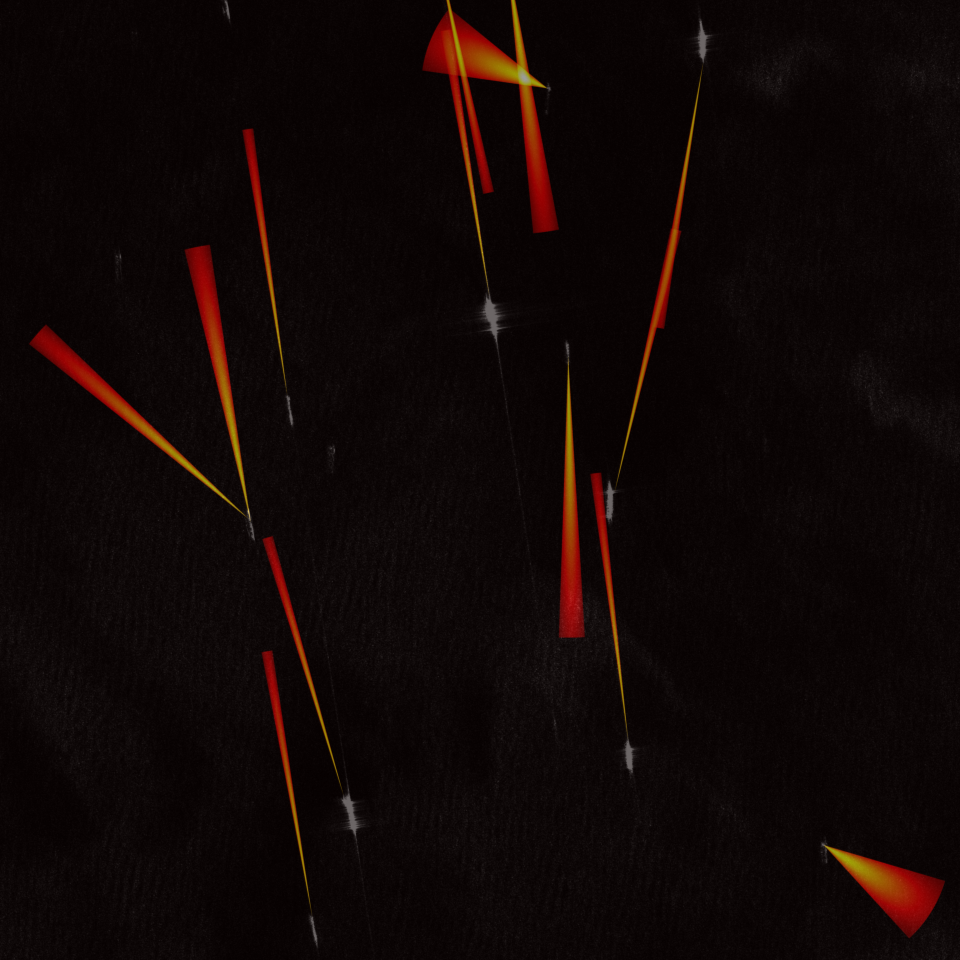
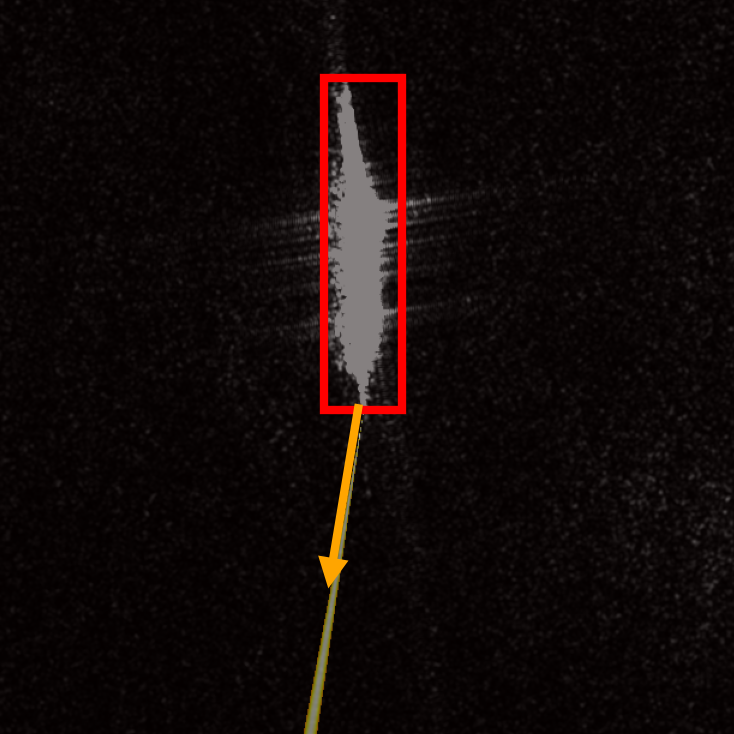
Reorganize awards page into Honors & Recognitions and Fellowships & Grants

diff --git a/awards.html b/awards.html
@@ -110,23 +110,9 @@
         <h1 class="page-title">Awards</h1>
 
         <section class="publications-section">
-            <h2 class="section-title">Honors</h2>
+            <h2 class="section-title">Honors & Recognitions</h2>
             <div class="awards-list">
                 <div class="award-item reveal">
-                    <div class="award-icon"><i class="fa-solid fa-user-graduate"></i></div>
-                    <div class="award-content">
-                        <span class="award-year">May 2026</span>
-                        <span class="award-text">
-                            <strong>DAAD AInet Fellow</strong> (AI in Neuroscience), awarded by the <a
-                                href="https://www.daad.de/en/the-daad/postdocnet/">German Academic Exchange Service (DAAD)</a>
-                            in the Postdoctoral Networking Tour in Artificial Intelligence (Postdoc-NeT-AI).
-                            <a href="https://www.daad.de/en/the-daad/postdocnet/fellows/fellows/#Dantas"
-                                class="cert-tag"><i class="fa-solid fa-square-poll-vertical"></i> Results</a>
-                        </span>
-                    </div>
-                </div>
-
-                <div class="award-item">
                     <div class="award-icon icon-bronze"><i class="fa-solid fa-trophy"></i></div>
                     <div class="award-content">
                         <span class="award-year">December 2025</span>
@@ -150,24 +136,8 @@
                             <strong>1st place</strong> in the <strong><a
                                     href="https://www.gov.br/defesa/pt-br">Brazilian
                                     Ministry of Defense Doctoral Award</a></strong> 2025, recognizing the best Ph.D.
-                            thesis
-                            in the country
-                            in defense science and technology (R$4,000 cash prize).
+                            thesis in the country in defense science and technology (R$4,000 cash prize).
                             <a href="certificates/2025_MD_PhD_Award.pdf" class="cert-tag"><i
-                                    class="fa-solid fa-certificate"></i>
-                                Certificate</a>
-                        </span>
-                    </div>
-                </div>
-
-                <div class="award-item reveal">
-                    <div class="award-icon"><i class="fa-solid fa-user-graduate"></i></div>
-                    <div class="award-content">
-                        <span class="award-year">June 2025</span>
-                        <span class="award-text">
-                            <strong>DAC Young Fellow</strong> for the <a href="https://dac.com/">Design
-                                Automation Conference (DAC) 2025</a>.
-                            <a href="certificates/2025_DAC_Young_Fellow.pdf" class="cert-tag"><i
                                     class="fa-solid fa-certificate"></i> Certificate</a>
                         </span>
                     </div>
@@ -220,8 +190,6 @@
                         </span>
                     </div>
                 </div>
-
-
 
                 <div class="award-item reveal">
                     <div class="award-icon"><i class="fa-solid fa-user-graduate"></i></div>
@@ -295,6 +263,19 @@
                 </div>
 
                 <div class="award-item reveal">
+                    <div class="award-icon"><i class="fa-solid fa-award"></i></div>
+                    <div class="award-content">
+                        <span class="award-year">December 2019</span>
+                        <span class="award-text">
+                            <strong>Ambassador Award of Excellence</strong> 2019, <a
+                                href="https://iymc.info/en/jodantas">International Youth Math Challenge (IYMC)</a>.
+                            <a href="certificates/2019_IYMC_Ambassador.pdf" class="cert-tag"><i
+                                    class="fa-solid fa-certificate"></i> Certificate</a>
+                        </span>
+                    </div>
+                </div>
+
+                <div class="award-item reveal">
                     <div class="award-icon"><i class="fa-solid fa-medal"></i></div>
                     <div class="award-content">
                         <span class="award-year">October 2019</span>
@@ -304,20 +285,6 @@
                             (39 competitors) for predicting flight delays for a Brazilian airline.
                             <a href="https://www.kaggle.com/competitions/kddbr-2019/leaderboard" class="cert-tag"><i
                                     class="fa-solid fa-square-poll-vertical"></i> Results</a>
-                        </span>
-                    </div>
-                </div>
-
-                <div class="award-item reveal">
-                    <div class="award-icon"><i class="fa-solid fa-award"></i></div>
-                    <div class="award-content">
-                        <span class="award-year">December 2019</span>
-                        <span class="award-text">
-                            <strong>Ambassador Award of Excellence</strong> 2019, <a
-                                href="https://iymc.info/en/jodantas">International Youth Math Challenge (IYMC)</a>.
-                            <a href="certificates/2019_IYMC_Ambassador.pdf" class="cert-tag"><i
-                                    class="fa-solid fa-certificate"></i>
-                                Certificate</a>
                         </span>
                     </div>
                 </div>
@@ -335,21 +302,6 @@
                             regression models.
                             <a href="https://www.kaggle.com/competitions/data-science-challenge-at-eef-2019/leaderboard"
                                 class="cert-tag"><i class="fa-solid fa-square-poll-vertical"></i> Results</a>
-                        </span>
-                    </div>
-                </div>
-
-                <div class="award-item reveal">
-                    <div class="award-icon"><i class="fa-solid fa-user-graduate"></i></div>
-                    <div class="award-content">
-                        <span class="award-year">October 2016</span>
-                        <span class="award-text">
-                            <strong>Prolider Program Fellow</strong> 2016, selected by <a
-                                href="https://www.institutofour.org/">Instituto Four</a> to participate in <a
-                                href="https://www.programaprolider.com.br/">Prolider</a> (29 recipients out of 2,013
-                            applicants).
-                            <a href="certificates/2016_Prolider_Fellow.pdf" class="cert-tag"><i
-                                    class="fa-solid fa-certificate"></i> Certificate</a>
                         </span>
                     </div>
                 </div>
@@ -381,7 +333,6 @@
                     </div>
                 </div>
 
-
                 <div class="award-item reveal">
                     <div class="award-icon icon-gold"><i class="fa-solid fa-trophy"></i></div>
                     <div class="award-content">
@@ -406,8 +357,7 @@
                             students
                             out of 7,627 applicants) in one of Brazil's most competitive entrance exams.
                             <a href="certificates/2010_ITA_Entrance_Exam.pdf" class="cert-tag"><i
-                                    class="fa-solid fa-certificate"></i>
-                                Certificate</a>
+                                    class="fa-solid fa-certificate"></i> Certificate</a>
                         </span>
                     </div>
                 </div>
@@ -434,8 +384,7 @@
                                     Olympiad of Astronomy and Astronautics (OBA)</a></strong> (187,726
                             competitors).
                             <a href="certificates/2007_OBA_Bronze_Medal.pdf" class="cert-tag"><i
-                                    class="fa-solid fa-certificate"></i>
-                                Certificate</a>
+                                    class="fa-solid fa-certificate"></i> Certificate</a>
                         </span>
                     </div>
                 </div>
@@ -500,8 +449,22 @@
         </section>
 
         <section class="publications-section">
-            <h2 class="section-title">Grants & Scholarships</h2>
+            <h2 class="section-title">Fellowships & Grants</h2>
             <div class="awards-list">
+                <div class="award-item reveal">
+                    <div class="award-icon"><i class="fa-solid fa-user-graduate"></i></div>
+                    <div class="award-content">
+                        <span class="award-year">May 2026</span>
+                        <span class="award-text">
+                            <strong>DAAD AInet Fellow</strong> (AI in Neuroscience), awarded by the <a
+                                href="https://www.daad.de/en/the-daad/postdocnet/">German Academic Exchange Service (DAAD)</a>
+                            in the Postdoctoral Networking Tour in Artificial Intelligence (Postdoc-NeT-AI).
+                            <a href="https://www.daad.de/en/the-daad/postdocnet/fellows/fellows/#Dantas"
+                                class="cert-tag"><i class="fa-solid fa-square-poll-vertical"></i> Results</a>
+                        </span>
+                    </div>
+                </div>
+
                 <div class="award-item reveal">
                     <div class="award-icon"><i class="fa-solid fa-plane"></i></div>
                     <div class="award-content">
@@ -524,6 +487,19 @@
                                 href="https://www.latinxinai.org/neurips-2025">LatinX in AI Research Workshop</a>
                             co-located with <a href="https://neurips.cc/Conferences/2025">NeurIPS 2025</a> in San Diego,
                             United States.
+                        </span>
+                    </div>
+                </div>
+
+                <div class="award-item reveal">
+                    <div class="award-icon"><i class="fa-solid fa-user-graduate"></i></div>
+                    <div class="award-content">
+                        <span class="award-year">June 2025</span>
+                        <span class="award-text">
+                            <strong>DAC Young Fellow</strong> for the <a href="https://dac.com/">Design
+                                Automation Conference (DAC) 2025</a>.
+                            <a href="certificates/2025_DAC_Young_Fellow.pdf" class="cert-tag"><i
+                                    class="fa-solid fa-certificate"></i> Certificate</a>
                         </span>
                     </div>
                 </div>
@@ -569,6 +545,18 @@
                 <div class="award-item reveal">
                     <div class="award-icon"><i class="fa-solid fa-plane"></i></div>
                     <div class="award-content">
+                        <span class="award-year">June 2024</span>
+                        <span class="award-text">
+                            <strong>Travel Grant</strong> ($1,000) to attend the <a
+                                href="https://sigsim.acm.org/conf/pads/2024/">2024 Conference on Principles of Advanced
+                                Discrete Simulation (PADS)</a>.
+                        </span>
+                    </div>
+                </div>
+
+                <div class="award-item reveal">
+                    <div class="award-icon"><i class="fa-solid fa-plane"></i></div>
+                    <div class="award-content">
                         <span class="award-year">May 2024</span>
                         <span class="award-text">
                             <strong>Travel Grant</strong> ($3,000) to attend the <a
@@ -592,18 +580,6 @@
                                 Week 2024</a>.
                             <a href="https://cisb.org.br/wp-content/uploads/2024/05/Call-CISB-132024-Disclosure-of-results.pdf"
                                 class="cert-tag"><i class="fa-solid fa-square-poll-vertical"></i> Results</a>
-                        </span>
-                    </div>
-                </div>
-
-                <div class="award-item reveal">
-                    <div class="award-icon"><i class="fa-solid fa-plane"></i></div>
-                    <div class="award-content">
-                        <span class="award-year">June 2024</span>
-                        <span class="award-text">
-                            <strong>Travel Grant</strong> ($1,000) to attend the <a
-                                href="https://sigsim.acm.org/conf/pads/2024/">2024 Conference on Principles of Advanced
-                                Discrete Simulation (PADS)</a>.
                         </span>
                     </div>
                 </div>
@@ -663,6 +639,21 @@
                 </div>
 
                 <div class="award-item reveal">
+                    <div class="award-icon"><i class="fa-solid fa-user-graduate"></i></div>
+                    <div class="award-content">
+                        <span class="award-year">October 2016</span>
+                        <span class="award-text">
+                            <strong>Prolider Program Fellow</strong> 2016, selected by <a
+                                href="https://www.institutofour.org/">Instituto Four</a> to participate in <a
+                                href="https://www.programaprolider.com.br/">Prolider</a> (29 recipients out of 2,013
+                            applicants).
+                            <a href="certificates/2016_Prolider_Fellow.pdf" class="cert-tag"><i
+                                    class="fa-solid fa-certificate"></i> Certificate</a>
+                        </span>
+                    </div>
+                </div>
+
+                <div class="award-item reveal">
                     <div class="award-icon"><i class="fa-solid fa-graduation-cap"></i></div>
                     <div class="award-content">
                         <span class="award-year">August 2014 — May 2015</span>
@@ -709,7 +700,7 @@
                     </div>
                 </div>
 
-                <div class="award-item">
+                <div class="award-item reveal">
                     <div class="award-icon"><i class="fa-solid fa-graduation-cap"></i></div>
                     <div class="award-content">
                         <span class="award-year">January 2004 — December 2006</span>
